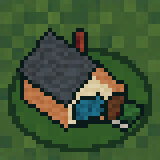
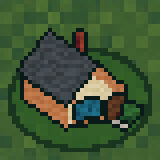
fix(studio): split the difference on house2's window size
0.72x0.48 read too big; settled between it and the original 0.62x0.42.

diff --git a/studio/scenes/house2.py b/studio/scenes/house2.py
@@ -14,7 +14,7 @@ WALL_W, WALL_D, WALL_H = 2.2, 1.7, 0.85
 ROOF_H = 0.85
 ROOF_OVERHANG_EAVE = 0.075
 ROOF_OVERHANG_RAKE = 0.15
-WIN_W, WIN_H = 0.72, 0.48
+WIN_W, WIN_H = 0.66, 0.44
 DOOR_W, DOOR_H = 0.4, 0.62
 CHIM_SIZE, CHIM_H = 0.22, 0.62
 
